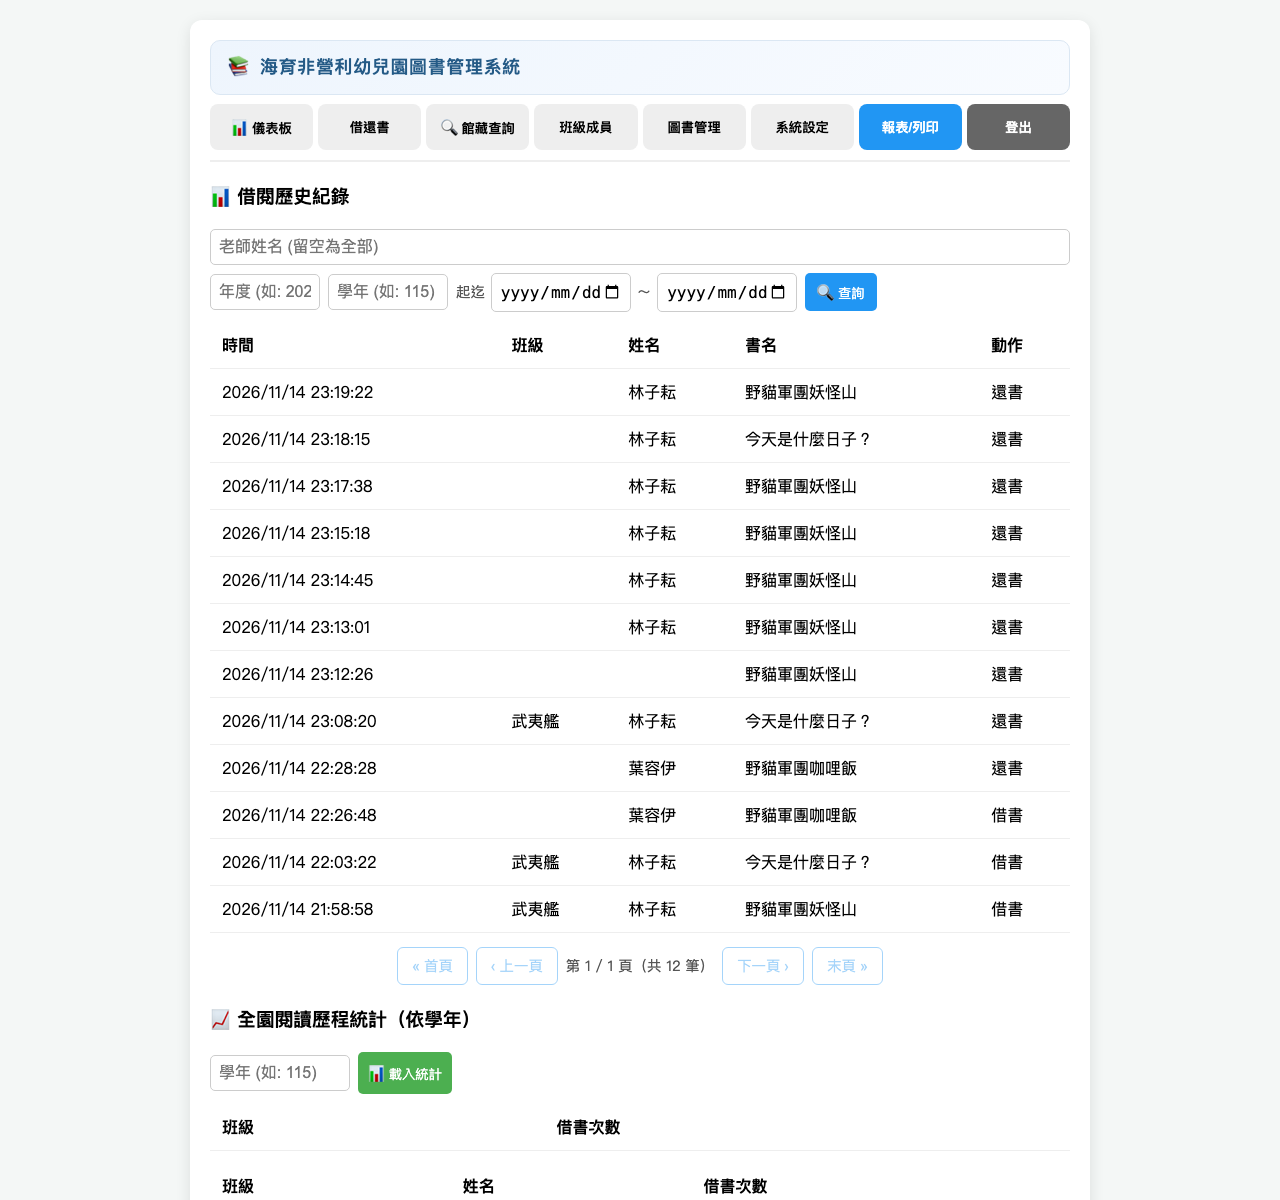
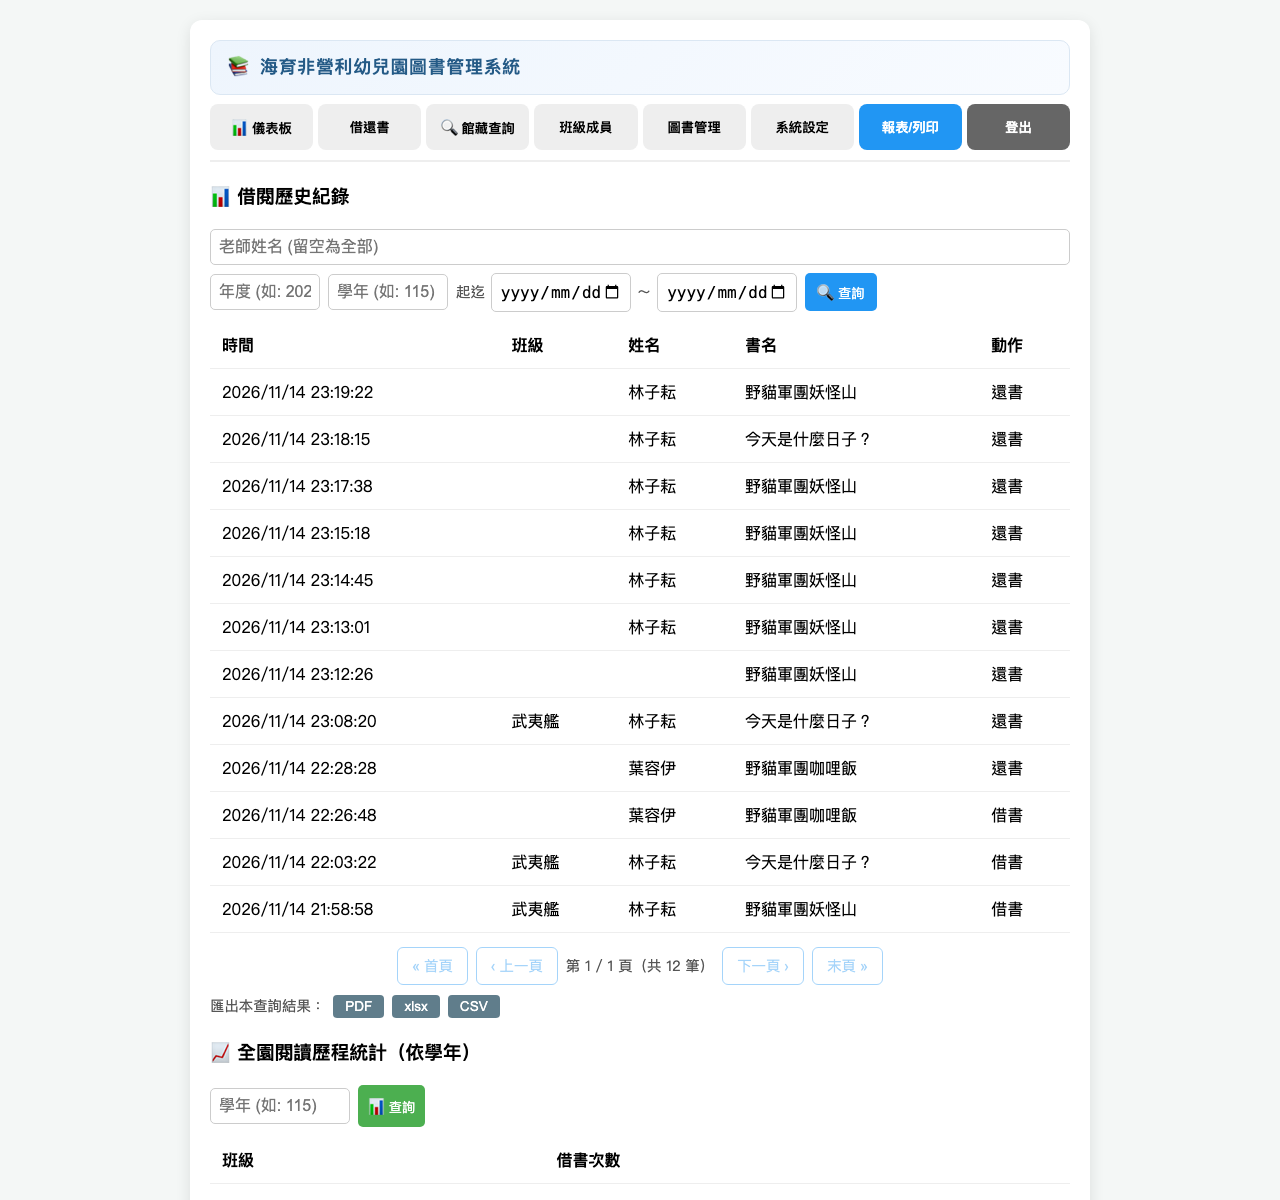
feat: 借閱歷史紀錄查詢結果下方新增 PDF/xlsx/CSV 匯出按鍵

diff --git a/index.html b/index.html
@@ -668,6 +668,12 @@
                 <tbody id="reportTableBody"></tbody>
             </table>
             <div id="reportPager" class="no-print"></div>
+            <div class="no-print" style="display:flex; gap:8px; flex-wrap:wrap; align-items:center; margin-top:10px;">
+                <span style="color:#555; font-size:0.9rem;">匯出本查詢結果：</span>
+                <button onclick="exportLogsReport('pdf')" style="padding:4px 12px; background:#607d8b; color:white; border:none; border-radius:4px; font-size:0.85rem;">PDF</button>
+                <button onclick="exportLogsReport('xlsx')" style="padding:4px 12px; background:#607d8b; color:white; border:none; border-radius:4px; font-size:0.85rem;">xlsx</button>
+                <button onclick="exportLogsReport('csv')" style="padding:4px 12px; background:#607d8b; color:white; border:none; border-radius:4px; font-size:0.85rem;">CSV</button>
+            </div>
         </div>
 
         <div id="yearStatsSection" style="margin-top:20px;">

diff --git a/docs/操作手冊.md b/docs/操作手冊.md
@@ -347,6 +347,7 @@ admin／root 角色與共用管理員不受勾選影響，一律全權限。
 「報表／列印」頁由上而下依序為：**📊 借閱歷史紀錄**、📈 全園閱讀歷程統計（依學年）、📖 個人閱讀歷程統計、⏰ 逾期未還清單，以及下方其他清冊與「📤 匯出中心」。查詢借閱紀錄時，最常用的歷史紀錄區塊位於頁面最上方。
 
 各區塊操作方式：
+- 借閱歷史紀錄：設定老師／年度／學年／日期後按「🔍 查詢」；查詢結果表格下方另有 **PDF／xlsx／CSV** 三個按鍵，可直接匯出目前篩選條件的紀錄。
 - 全園閱讀歷程統計：輸入學年後按「📊 查詢」載入統計。
 - 個人閱讀歷程統計：選擇班級、姓名、學年與日期區間後，先按「🔍 查詢」在畫面預覽，再按「📖 列印個人歷程」列印。
 - 逾期未還清單：選擇班級／師生與「已還清冊期間」日期後，按日期欄位後方的「🔍 查詢逾期清單」載入。

diff --git a/docs/修訂紀錄.md b/docs/修訂紀錄.md
@@ -507,3 +507,6 @@
 ### 報表頁日期起迄欄位縮小（2026/11/15）
 - 「個人閱讀歷程統計」與「逾期未還清單（已還清冊期間）」的起迄日期欄位由整頁寬縮小為 160px，並可與其他條件排列在同一列，版面更緊湊。
 - 「🔍 查詢逾期清單」按鍵改為緊接在日期欄位之後（同一列），不再另起一列。
+
+### 借閱歷史紀錄查詢結果下方新增匯出按鍵（2026/11/16）
+- 「📊 借閱歷史紀錄」查詢結果與分頁下方新增 PDF／xlsx／CSV 三個按鍵，直接匯出目前篩選條件（老師／年度／學年／日期）的紀錄，免到匯出中心。
